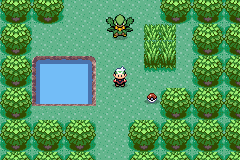
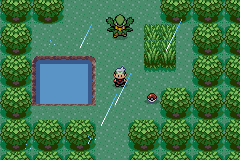
Set Stillwater entrance into cliff and preserve approved grotto looks

diff --git a/test/legends-grotto-review.test.py b/test/legends-grotto-review.test.py
@@ -39,6 +39,15 @@ class Grottos(unittest.TestCase):
                         struct.pack_into('<H',data,offset,patch['old'])
                 self.assertEqual(BASE['routes'][route]['files'][f],hashlib.sha256(data).hexdigest())
 
+    def test_approved_looks_preserved_except_cliff_opening(self):
+        approved=read('docs/qa/hidden-grottos-approved-looks.json')
+        for path,sha in approved['map_sha256'].items():
+            self.assertEqual(hashlib.sha256((R/path).read_bytes()).hexdigest(),sha,path)
+        a=bytearray((R/'data/layouts/Route114/map.bin').read_bytes())
+        for patch in approved['Route114_restore_words']:
+            struct.pack_into('<H',a,patch['index']*2,patch['old'])
+        self.assertEqual(hashlib.sha256(a).hexdigest(),approved['Route114_sha256'])
+
     def test_reach_every_interaction_and_exit(self):
         layouts = {l['id']:l for l in read('data/layouts/layouts.json')['layouts']}
         for key in ['Leafshade','Stillwater','Rainroot']:

diff --git a/tools/legends/present_grotto_review.py b/tools/legends/present_grotto_review.py
@@ -43,6 +43,11 @@ def main():
         text(entrances,(16,y+25),place,12)
         entrances.paste(Image.open(SOURCE/f'room-{i}-season-0-entrance.png').resize((480,320),Image.Resampling.NEAREST),(0,y+44))
     entrances.save(OUT/'Emerald-Legends-Grotto-Entrances.png')
+    cliff=Image.new('RGB',(480,384),'#282831')
+    text(cliff,(14,9),'STILLWATER NOOK',18,True)
+    text(cliff,(14,34),'Route 114 cliff opening | native mGBA review',12)
+    cliff.paste(Image.open(SOURCE/'room-1-season-0-exit.png').resize((480,320),Image.Resampling.NEAREST),(0,64))
+    cliff.save(OUT/'Emerald-Legends-Cliff-Entrance-Refined.png')
     frames=[]
     for season,(name,visitor) in enumerate([('Spring','Morelull'),('Summer','Tropius'),('Autumn','Goomy'),('Winter','Swablu')]):
         card=Image.new('RGB',(480,384),'#282831')

diff --git a/tools/legends/build_grotto_review.py b/tools/legends/build_grotto_review.py
@@ -20,7 +20,7 @@ ROOMS = [
 # Every cell is existing Hoenn art; no tileset, palette or persistent ID changes.
 ENTRANCE_TILES = {
     'PetalburgWoods': [(12, 31, 0x036), (13, 31, 0x037)],
-    'Route114': [(14, 40, 0x210)],
+    'Route114': [(13, 39, 0x259), (13, 40, 0x261), (14, 40, 0x33C)],
     'Route119': [(26, 104, 0x279), (27, 104, 0x27A), (28, 104, 0x27B),
                  (26, 105, 0x281), (27, 105, 0x278), (28, 105, 0x283),
                  (26, 106, 0x001)],

diff --git a/docs/DEVELOPMENT-HANDOFF.md b/docs/DEVELOPMENT-HANDOFF.md
@@ -1,5 +1,15 @@
 # Development handoff
 
+## Stillwater cliff exterior touchup; other grotto looks locked (21 October 2026)
+
+**Model: GPT-6 (Codex) | Reasoning: seat the opening in the actual cliff face and retain the accepted surrounding visual baseline.**
+
+Owner approved the current grotto interiors/exteriors, including Rainroot's repaired grass, with one exception: the cliff pit looked strange. Replaced the rounded Secret Base floor-like hole at Route 114 `(14,40)` with a native two-tile brown cave mouth at `(13,39–40)`, within the cliff itself, and restored the original adjacent cliff/grass edge at `(14,40)`. Only these three map words differ from approved source `0d89eb5f`. The existing inspect cell `(14,40)`, approach/return `(15,40)`, scripts, guard, collision boundaries, objects, all interiors and other entrances remain unchanged in function. The visible cave mouth uses native nonanimated entrance behavior, which requires a matching warp event to warp; none was added. It is solid scenery reached through the existing Examine/Yes/No script.
+
+Added approved-look hashes for all three interior maps and both other exterior maps plus an exact Route 114 three-cell exception. All seven focused checks passed, including original route restoration, accepted-look preservation and the existing native C guard. Debug/Release builds passed. Native mGBA passed twelve seasonal scenes and all three exit/decline/reentry paths, including actual inspection/entry at the revised cliff. Inspected the [actual updated cliff frame](designs/hidden-grottos/Emerald-Legends-Cliff-Entrance-Refined.png). [Hashes, scope and limits](qa/hidden-grottos-cliff.json).
+
+Preserve the approved current grotto appearances except further explicitly requested changes. This exterior refinement is saved in draft PR #87 for review, with no merge/publication/version/BPS/wiki/site changes. Captures/rewards/refresh persistence are still unfinished prototype work. Native scene setup remains controlled Debug QA, not a full-story/save matrix, Release emulator or Pizza Boy claim. No durable AGENTS.md policy change was necessary.
+
 ## Rainroot tall-grass edge repair (21 October 2026)
 
 **Model: GPT-6 (Codex) | Reasoning: use the native Route 119 long-grass assembly rather than ending stalk tiles directly on grass.**

diff --git a/docs/features/hidden-grottos-review.md b/docs/features/hidden-grottos-review.md
@@ -2,7 +2,7 @@
 
 Status: **unshipped exploration prototype, third, compact interior review**, based on v0.0.68. Owner requested another cleanup and smaller grotto interiors after the discovery review. Layouts, names, roster and renewal rules remain proposals pending review.
 
-Three small, optional shelters reward inspecting the edges of familiar routes. A vine-framed trunk, a rock crevice and a gap in the undergrowth provide visible clues. Each entrance asks before entering; walking back through the mouth returns to the original approach. Native Hoenn art and species sprites supply every pixel. Ten bounded route cells show the openings; existing route events, warps and story scripts retain their meanings.
+Three small, optional shelters reward inspecting the edges of familiar routes. A vine-framed trunk, a tall rock crevice and a gap in the undergrowth provide visible clues. Each entrance asks before entering; walking back through the mouth returns to the original approach. Native Hoenn art and species sprites supply every pixel. Eleven bounded route cells show the openings; existing route events, warps and story scripts retain their meanings.
 
 | Shelter | Entrance | Character | Environmental clue |
 | --- | --- | --- | --- |
